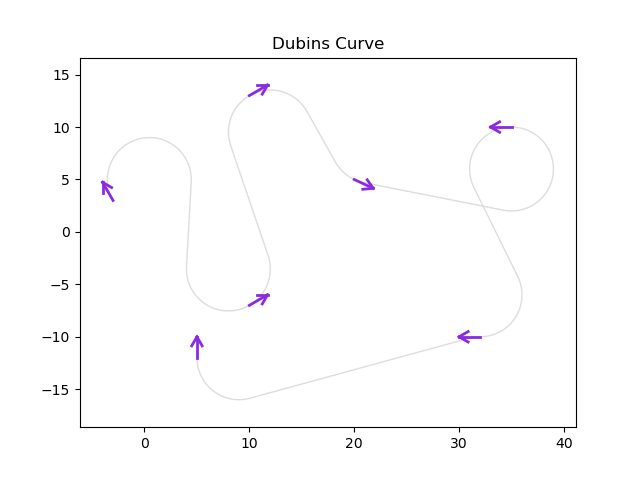
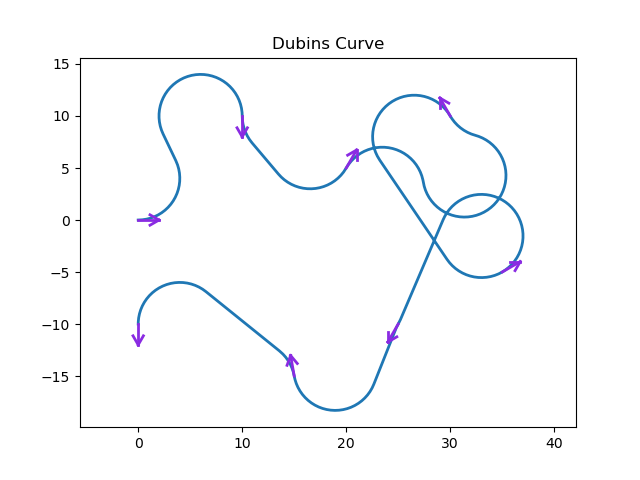
update: Bezier curve

diff --git a/curve_generation/bezier_curve.py b/curve_generation/bezier_curve.py
@@ -1,0 +1,154 @@
+'''
+@file: bezier_curve.py
+@breif: Bezier curve generation
+@author: Winter
+@update: 2023.7.25
+'''
+import numpy as np
+import os, sys
+
+sys.path.append(os.path.abspath(os.path.join(__file__, "../../")))
+
+from scipy.special import comb
+from utils import Plot
+from .curve import Curve
+
+class Bezier(Curve):
+	'''
+    Class for Bezier curve generation.
+
+    Parameters
+    ----------
+    step: float
+        Simulation or interpolation size
+    max_curv: float
+        The maximum curvature of the curve
+	offset: float
+		The offset of control points
+
+    Examples
+    ----------
+    >>> from curve_generation import Bezier
+    >>>	points = [(0, 0, 0), (10, 10, -90), (20, 5, 60)]
+    >>> generator = Bezier(step, max_curv, offset)
+    >>> generator.run(points)
+	'''
+	def __init__(self, step: float, max_curv: float, offset: float) -> None:
+		super().__init__(step, max_curv)
+		self.offset = offset
+	
+	def __str__(self) -> str:
+		return "Bezier Curve"
+    
+	def generation(self, start_pose: tuple, goal_pose: tuple):
+		'''
+		Generate the Bezier Curve.
+
+		Parameters
+		----------
+		start_pose: tuple
+			Initial pose (x, y, yaw)
+		goal_pose: tuple
+			Target pose (x, y, yaw)
+
+		Return
+		----------
+		x_list/y_list/yaw_list: list
+			Trajectory
+		'''
+		sx, sy, _ = start_pose
+		gx, gy, _ = goal_pose
+		n_points = int(np.hypot(sx - gx, sy - gy) / self.step)
+		control_points = self.getControlPoints(start_pose, goal_pose)
+
+		return [self.bezier(t, control_points) for t in np.linspace(0, 1, n_points)], \
+			   control_points
+
+	def bezier(self, t: float, control_points: list) ->np.ndarray:
+		'''
+		Calculate the Bezier curve point.
+
+		Parameters
+		----------
+		t: float
+			scale factor
+		control_points: list[tuple]
+			control points
+
+		Return
+		----------
+		point: np.array
+			point in Bezier curve with t
+		'''
+		n = len(control_points) - 1
+		control_points = np.array(control_points)
+		return np.sum([comb(n, i) * t ** i * (1 - t) ** (n - i) * 
+			control_points[i] for i in range(n + 1)], axis=0)
+
+	def getControlPoints(self, start_pose: tuple, goal_pose: tuple):
+		'''
+		Calculate control points heuristically.
+
+		Parameters
+		----------
+		start_pose: tuple
+			Initial pose (x, y, yaw)
+		goal_pose: tuple
+			Target pose (x, y, yaw)
+
+		Return
+		----------
+		control_points: list[tuple]
+			control points
+		'''
+		sx, sy, syaw = start_pose
+		gx, gy, gyaw = goal_pose
+
+		dist = np.hypot(sx - gx, sy - gy) / self.offset
+		return [(sx, sy),
+				(sx + dist * np.cos(syaw), sy + dist * np.sin(syaw)),
+				(gx - dist * np.cos(gyaw), gy - dist * np.sin(gyaw)),
+				(gx, gy)]
+	
+	def run(self, points: list):
+		'''
+        Running both generation and animation.
+
+		Parameters
+		----------
+		points: list[tuple]
+			path points
+        '''
+		assert len(points) >= 2, "Number of points should be at least 2."
+		import matplotlib.pyplot as plt
+
+		# generation
+		path_x, path_y = [], []
+		path_control_x, path_control_y = [], []
+		for i in range(len(points) - 1):
+			path, control_points = self.generation(
+				(points[i][0], points[i][1], np.deg2rad(points[i][2])),
+				(points[i + 1][0], points[i + 1][1], np.deg2rad(points[i + 1][2])))
+
+			for pt in path:
+				path_x.append(pt[0])
+				path_y.append(pt[1])
+			
+			path_control_x.append(points[i][0])
+			path_control_y.append(points[i][1])
+
+			for pt in control_points:
+				path_control_x.append(pt[0])
+				path_control_y.append(pt[1])
+		
+		# animation
+		plt.figure("curve generation")
+		plt.plot(path_x, path_y, linewidth=2, c="#1f77b4")
+		plt.plot(path_control_x, path_control_y, '--o', c='#dddddd', label="Control Points")
+		for x, y, theta in points:
+			Plot.plotArrow(x, y, np.deg2rad(theta), 2, 'blueviolet')
+
+		plt.axis("equal")
+		plt.title(str(self))
+		plt.show()
+		

diff --git a/curve_generation/dubins_curve.py b/curve_generation/dubins_curve.py
@@ -34,10 +34,8 @@ class Dubins(Curve):
     >>> generator = Dubins(step, max_curv)
     >>> generator.run(points)
     '''
-		
 	def __init__(self, step: float, max_curv: float) -> None:
 		super().__init__(step, max_curv)
-		self.points = []
 	
 	def __str__(self) -> str:
 		return "Dubins Curve"
@@ -269,7 +267,7 @@ class Dubins(Curve):
 
 	def generation(self, start_pose: tuple, goal_pose: tuple):
 		'''
-		Generate the curve with Dubins Curve.
+		Generate the Dubins Curve.
 
 		Parameters
 		----------
@@ -375,7 +373,7 @@ class Dubins(Curve):
 		
 		# animation
 		plt.figure("curve generation")
-		plt.plot(path_x, path_y, linewidth=1, color="#dddddd")
+		plt.plot(path_x, path_y, linewidth=2, c="#1f77b4")
 		for x, y, theta in points:
 			Plot.plotArrow(x, y, np.deg2rad(theta), 2, 'blueviolet')
 

diff --git a/example/curve_example.py b/example/curve_example.py
@@ -13,14 +13,16 @@ if __name__ == '__main__':
     points = [(0, 0, 0), (10, 10, -90), (20, 5, 60), (30, 10, 120),
 			  (35, -5, 30), (25, -10, -120), (15, -15, 100), (0, -10, -90)]
 
-    points = [(-3, 3, 120), (10, -7, 30), (10, 13, 30), (20, 5, -25),
-			  (35, 10, 180), (32, -10, 180), (5, -12, 90)]
+    # points = [(-3, 3, 120), (10, -7, 30), (10, 13, 30), (20, 5, -25),
+	# 		  (35, 10, 180), (32, -10, 180), (5, -12, 90)]
+
 
     # curve generation constructor
     curve_factory = CurveFactory()
 
     # create generator
-    generator = curve_factory("dubins", step=0.1, max_curv=0.25)
+    # generator = curve_factory("dubins", step=0.1, max_curv=0.25)
+    generator = curve_factory("bezier", step=0.1, max_curv=0.25, offset=3.0)
 
     # animation
     generator.run(points)

diff --git a/utils/planner/curve_factory.py b/utils/planner/curve_factory.py
@@ -16,5 +16,7 @@ class CurveFactory(object):
     def __call__(self, curve_name, **config):
         if curve_name == "dubins":
             return Dubins(**config)
+        elif curve_name == "bezier":
+            return Bezier(**config)
         else:
             raise ValueError("The `curve_name` must be set correctly.")

diff --git a/curve_generation/__init__.py b/curve_generation/__init__.py
@@ -1,3 +1,4 @@
 from .dubins_curve import Dubins
+from .bezier_curve import Bezier
 
-__all__ = ["Dubins"]
+__all__ = ["Dubins", "Bezier"]

diff --git a/README.md b/README.md
@@ -93,7 +93,7 @@ Planner      |   Version   | Animation
 | Planner | Version   | Animation                                |
 | ------- | -------------------------------------------------------- | -------------------------------------------------------- 
 | **Polynomia** | ![Status](https://img.shields.io/badge/develop-v1.0-red) |![Status](https://img.shields.io/badge/gif-none-yellow)
-| **Bezier** | ![Status](https://img.shields.io/badge/develop-v1.0-red) |![Status](https://img.shields.io/badge/gif-none-yellow)
+| **Bezier** | [![Status](https://img.shields.io/badge/done-v1.0-brightgreen)](https://github.com/ai-winter/python_motion_planning/blob/master/curve_generation/bezier_curve.py) | ![bezier_curve_python.png](gif/bezier_curve_python.png)
 | **BSpline** | ![Status](https://img.shields.io/badge/develop-v1.0-red) |![Status](https://img.shields.io/badge/gif-none-yellow)
 | **Dubins** | [![Status](https://img.shields.io/badge/done-v1.0-brightgreen)](https://github.com/ai-winter/python_motion_planning/blob/master/curve_generation/dubins_curve.py) | ![dubins_curve_python.png](gif/dubins_curve_python.png)
 | **Reeds-Shepp** | ![Status](https://img.shields.io/badge/develop-v1.0-red) |![Status](https://img.shields.io/badge/gif-none-yellow)
